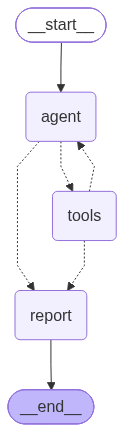
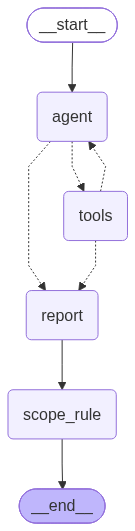
ops_agent: compute impact scope by rule after report, keep model scope for A/B

diff --git a/ops_agent/evaluate.py b/ops_agent/evaluate.py
@@ -2,9 +2,12 @@
 
   python -m ops_agent.evaluate
   python -m ops_agent.evaluate --case case01 case05 --pause 30
+  python -m ops_agent.evaluate --case case07 --repeat 3
+  python -m ops_agent.evaluate --rescore ops_agent/results/eval-*.json
 
-指标：根因类别、影响范围是否正确；报告里命中了多少条关键证据；标准答案要求的工具是否都调用过；
-以及工具轮数、LLM 调用次数、tokens、耗时。结果保存在 ops_agent/results/。
+指标：根因类别、影响范围是否正确（模型给的范围和规则算的范围分开计）；报告里命中了多少条关键证据；
+标准答案要求的工具是否都调用过；以及工具轮数、LLM 调用次数、tokens、耗时。结果保存在 ops_agent/results/。
+--rescore 不调用模型，用历史结果里模型给的根因类别重新计算规则范围，对照模型自己给的范围。
 """
 import argparse
 import json
@@ -18,6 +21,7 @@ import tracing
 from ops_agent.__main__ import progress
 from ops_agent.data import Case, load_cases
 from ops_agent.graph import MAX_TOOL_ROUNDS, ask, build_graph
+from ops_agent.scope_rule import rule_scope
 
 RESULTS_DIR = Path(__file__).parent / "results"
 
@@ -37,6 +41,9 @@ def score(case: Case, r: dict) -> dict:
         "got": f"{report.category}/{report.scope}" if report else "无报告",
         "category_ok": bool(report) and report.category == answer.category,
         "scope_ok": bool(report) and report.scope == answer.scope,
+        "rule_scope": r["rule_scope"],
+        "rule_scope_ok": r["rule_scope"] == answer.scope,
+        "rule_reason": r["rule_reason"],
         "evidence_recall": sum(hits) / len(hits),
         "missed_evidence": [g for g, h in zip(answer.evidence, hits) if not h],
         "tools_ok": set(answer.required_tools) <= set(r["tools_used"]),
@@ -54,6 +61,8 @@ def write_scores(row: dict) -> None:
     trace_id = row["trace_id"]
     tracing.score(trace_id, "category_ok", row["category_ok"], comment=f"{row['expected']} -> {row['got']}")
     tracing.score(trace_id, "scope_ok", row["scope_ok"])
+    tracing.score(trace_id, "scope_rule_ok", row["rule_scope_ok"],
+                  comment=f"规则 {row['rule_scope']}：{row['rule_reason']}")
     tracing.score(trace_id, "evidence_recall", row["evidence_recall"],
                   comment=f"缺证据 {row['missed_evidence']}" if row["missed_evidence"] else None)
     tracing.score(trace_id, "tools_ok", row["tools_ok"])
@@ -73,19 +82,45 @@ def run_case(app, case: Case, retries: int, run_id: str) -> dict:
 
 def summarize(rows: list[dict]) -> dict:
     mean = lambda key: sum(r[key] for r in rows) / len(rows)
-    return {k: round(mean(k), 3) for k in ("category_ok", "scope_ok", "evidence_recall", "tools_ok",
+    return {k: round(mean(k), 3) for k in ("category_ok", "scope_ok", "rule_scope_ok", "evidence_recall", "tools_ok",
                                            "tool_rounds", "tool_calls", "llm_calls", "tokens", "latency")}
+
+
+def rescore(paths: list[str]) -> None:
+    cases = load_cases()
+    total = {"scope_ok": 0, "rule_scope_ok": 0, "n": 0}
+    for path in paths:
+        data = json.loads(Path(path).read_text(encoding="utf-8"))
+        print(f"\n{Path(path).name}（{data['meta']['model']}）")
+        for row in data["rows"]:
+            case, report = cases[row["case_id"]], row["report"]
+            scope, reason = rule_scope(case, report["category"] if report else None)
+            model_scope = report["scope"] if report else "无报告"
+            ok_a, ok_b = model_scope == case.answer.scope, scope == case.answer.scope
+            total["scope_ok"] += ok_a
+            total["rule_scope_ok"] += ok_b
+            total["n"] += 1
+            print(f"  {row['case_id']}  期望 {case.answer.scope:<14}模型 {model_scope:<14}{'✓' if ok_a else '✗'}  "
+                  f"规则 {scope:<14}{'✓' if ok_b else '✗'}  {reason}")
+    n = total["n"]
+    print(f"\n共 {n} 个结果：模型给的范围对 {total['scope_ok']} 个（{total['scope_ok'] / n:.0%}），"
+          f"规则计算的范围对 {total['rule_scope_ok']} 个（{total['rule_scope_ok'] / n:.0%}）")
 
 
 def main() -> None:
     parser = argparse.ArgumentParser(prog="python -m ops_agent.evaluate")
     parser.add_argument("--case", nargs="*", help="只跑这些 case，默认全部")
+    parser.add_argument("--repeat", type=int, default=1, help="每个 case 跑几次")
     parser.add_argument("--pause", type=float, default=20, help="两个 case 之间暂停的秒数，避免触发限流")
     parser.add_argument("--retries", type=int, default=3)
+    parser.add_argument("--rescore", nargs="+", metavar="RESULT_JSON", help="不调用模型，对历史结果重算规则范围")
     args = parser.parse_args()
+    if args.rescore:
+        rescore(args.rescore)
+        return
 
     cases = load_cases()
-    ids = args.case or list(cases)
+    ids = [cid for cid in args.case or list(cases) for _ in range(args.repeat)]
     llm = config.get_llm()
     app = build_graph(llm)
     rows = []
@@ -98,16 +133,19 @@ def main() -> None:
         row = score(cases[cid], run_case(app, cases[cid], args.retries, run_id))
         write_scores(row)
         rows.append(row)
-        print(f"  => {row['got']}（期望 {row['expected']}），证据 {row['evidence_recall']:.0%}，"
-              f"{row['tool_rounds']} 轮 {row['tool_calls']} 次工具，{row['latency']}s", flush=True)
+        print(f"  => {row['got']}（期望 {row['expected']}），规则范围 {row['rule_scope']}，"
+              f"证据 {row['evidence_recall']:.0%}，{row['tool_rounds']} 轮 {row['tool_calls']} 次工具，"
+              f"{row['latency']}s", flush=True)
 
-    print(f"\n{'case':<8}{'类别':>6}{'范围':>6}{'证据':>8}{'工具':>6}{'轮数':>6}{'LLM':>6}{'tokens':>9}{'耗时':>8}")
+    mark = lambda ok: "✓" if ok else "✗"
+    print(f"\n{'case':<8}{'类别':>6}{'范围':>6}{'规则':>6}{'证据':>8}{'工具':>6}{'轮数':>6}{'LLM':>6}{'tokens':>9}{'耗时':>8}")
     for r in rows:
-        print(f"{r['case_id']:<8}{'✓' if r['category_ok'] else '✗':>7}{'✓' if r['scope_ok'] else '✗':>7}"
-              f"{r['evidence_recall']:>9.0%}{'✓' if r['tools_ok'] else '✗':>7}{r['tool_rounds']:>8}"
+        print(f"{r['case_id']:<8}{mark(r['category_ok']):>7}{mark(r['scope_ok']):>7}{mark(r['rule_scope_ok']):>7}"
+              f"{r['evidence_recall']:>9.0%}{mark(r['tools_ok']):>7}{r['tool_rounds']:>8}"
               f"{r['llm_calls']:>6}{r['tokens']:>9}{r['latency']:>9.1f}")
     summary = summarize(rows)
-    print(f"\n类别准确率 {summary['category_ok']:.0%}，范围准确率 {summary['scope_ok']:.0%}，"
+    print(f"\n类别准确率 {summary['category_ok']:.0%}，范围准确率 {summary['scope_ok']:.0%}"
+          f"（规则计算 {summary['rule_scope_ok']:.0%}），"
           f"证据召回 {summary['evidence_recall']:.0%}，必需工具覆盖 {summary['tools_ok']:.0%}；"
           f"平均 {summary['tool_rounds']} 轮工具、{summary['llm_calls']} 次 LLM、"
           f"{summary['tokens']:.0f} tokens、{summary['latency']:.1f}s")
@@ -115,6 +153,8 @@ def main() -> None:
         problems = []
         if not r["category_ok"] or not r["scope_ok"]:
             problems.append(f"{r['expected']} -> {r['got']}")
+        if not r["rule_scope_ok"]:
+            problems.append(f"规则范围 {r['rule_scope']}")
         if r["missed_evidence"]:
             problems.append(f"缺证据 {r['missed_evidence']}")
         if r["missed_tools"]:
@@ -130,6 +170,7 @@ def main() -> None:
         "model": llm.model_name,
         "temperature": llm.temperature,
         "max_tool_rounds": MAX_TOOL_ROUNDS,
+        "repeat": args.repeat,
         "langfuse_session": run_id if tracing.enabled() else None,
     }
     out.write_text(json.dumps({"meta": meta, "summary": summary, "rows": rows}, ensure_ascii=False, indent=2),
@@ -137,7 +178,8 @@ def main() -> None:
     print(f"\n模型 {meta['model']}，结果已保存到 {out}")
     if tracing.enabled():
         tracing.flush()
-        print(f"Langfuse 会话：{run_id}（trace 上带 category_ok / scope_ok / evidence_recall / tools_ok 分数）")
+        print(f"Langfuse 会话：{run_id}（trace 上带 category_ok / scope_ok / scope_rule_ok / evidence_recall / "
+              f"tools_ok 分数）")
 
 
 if __name__ == "__main__":

diff --git a/ops_agent/graph.py b/ops_agent/graph.py
@@ -2,10 +2,11 @@
 
     START -> agent --有工具调用--> tools --未到轮数上限--> agent
                |                     |--到达上限--> report
-               |--不再调用工具--> report -> END
+               |--不再调用工具--> report -> scope_rule -> END
 
 agent 只负责"想下一步查什么"，report 只负责"把查到的东西整理成固定结构"。拆开后，
 排查过程可以用自由文本推理，报告字段又能稳定地拿来评估；轮数上限保证一定能收敛。
+scope_rule 按主机数据规则重算影响范围，报告里模型自己给的范围保留不动，两者可以对照。
 """
 import time
 from collections.abc import Callable
@@ -17,11 +18,13 @@ import tracing
 from langchain_core.messages import AIMessage, HumanMessage, SystemMessage
 from langgraph.graph import END, START, MessagesState, StateGraph
 from langgraph.prebuilt import ToolNode
+from langgraph.runtime import Runtime
 from pydantic import BaseModel, Field
 from tools import CallCounter
 
-from ops_agent.data import Case, Category, Scope, category_choices, scope_choices
+from ops_agent.data import Case, Category, Scope, category_choices, load_cases, scope_choices
 from ops_agent.diag_tools import TOOLS, OpsContext
+from ops_agent.scope_rule import rule_scope
 
 MAX_TOOL_ROUNDS = 8
 
@@ -55,6 +58,8 @@ class RootCauseReport(BaseModel):
 class OpsState(MessagesState):
     report: RootCauseReport | None
     error: str
+    rule_scope: Scope | None
+    rule_reason: str
 
 
 def alert_message(case: Case) -> str:
@@ -86,6 +91,11 @@ def build_graph(llm=None, max_tool_rounds: int = MAX_TOOL_ROUNDS):
             return {"report": None, "error": f"{type(e).__name__}: {e}"}
         return {"report": result, "error": "" if result else "模型没有输出报告"}
 
+    def scope_rule(state: OpsState, runtime: Runtime[OpsContext]) -> dict:
+        case = load_cases()[runtime.context.case_id]
+        scope, reason = rule_scope(case, state["report"].category if state["report"] else None)
+        return {"rule_scope": scope, "rule_reason": reason}
+
     def after_agent(state: OpsState) -> str:
         return "tools" if state["messages"][-1].tool_calls else "report"
 
@@ -96,10 +106,12 @@ def build_graph(llm=None, max_tool_rounds: int = MAX_TOOL_ROUNDS):
     graph.add_node("agent", agent)
     graph.add_node("tools", ToolNode(TOOLS))
     graph.add_node("report", report)
+    graph.add_node("scope_rule", scope_rule)
     graph.add_edge(START, "agent")
     graph.add_conditional_edges("agent", after_agent, {"tools": "tools", "report": "report"})
     graph.add_conditional_edges("tools", after_tools, {"agent": "agent", "report": "report"})
-    graph.add_edge("report", END)
+    graph.add_edge("report", "scope_rule")
+    graph.add_edge("scope_rule", END)
     return graph.compile(name="ops_agent")
 
 
@@ -113,7 +125,8 @@ def ask(app, case: Case, on_step: Callable[[str], None] | None = None, session_i
     """跑一个 case，返回报告、工具调用轨迹和成本。on_step 在每个节点结束时收到一行进度。"""
     counter = CallCounter()
     start = time.perf_counter()
-    inputs = {"messages": [HumanMessage(alert_message(case))], "report": None, "error": ""}
+    inputs = {"messages": [HumanMessage(alert_message(case))], "report": None, "error": "",
+              "rule_scope": None, "rule_reason": ""}
     trace_id = tracing.new_trace_id()
     cfg = tracing.traced({"callbacks": [counter], "recursion_limit": 4 * MAX_TOOL_ROUNDS + 10}, "ops_agent",
                          trace_id=trace_id, session_id=session_id, tags=["ops_agent", case.id, *(tags or [])],
@@ -135,6 +148,8 @@ def ask(app, case: Case, on_step: Callable[[str], None] | None = None, session_i
     return {
         "case_id": case.id,
         "report": state["report"],
+        "rule_scope": state["rule_scope"],
+        "rule_reason": state["rule_reason"],
         "error": state["error"],
         "rounds": rounds,
         "tools_used": sorted({c.split("(")[0] for r in rounds for c in r}),

diff --git a/tests/test_ops_agent.py b/tests/test_ops_agent.py
@@ -10,6 +10,7 @@ from ops_agent.data import CATEGORY_NAMES, DEFAULT_METRICS, HISTORY_MINUTES, loa
 from ops_agent.diag_tools import TOOLS, OpsContext
 from ops_agent.evaluate import score
 from ops_agent.graph import REPORT_PROMPT, RootCauseReport, alert_message, ask, build_graph
+from ops_agent.scope_rule import rule_scope
 from tests.fake_models import ScriptedChatModel, tool_call
 
 CASES = load_cases()
@@ -125,6 +126,24 @@ def test_compare_peers_groups(run):
                                                                 metric="disk_usage"))
 
 
+@pytest.mark.parametrize("case_id", sorted(CASES))
+def test_rule_scope(case_id):
+    c = CASES[case_id]
+    assert rule_scope(c, c.answer.category)[0] == c.answer.scope
+    # 除监控误报外，范围只看主机数据，和模型给的类别无关
+    if c.answer.category != "false_alarm":
+        assert rule_scope(c, "config_change")[0] == rule_scope(c, None)[0] == c.answer.scope
+
+
+def test_rule_scope_layers():
+    # case07 类别判错时，靠百分比超过 100 仍判为无实际影响
+    scope, reason = rule_scope(CASES["case07"], "resource_leak")
+    assert scope == "no_impact" and "超过 100" in reason
+    # 模型把真实故障判成误报时，规则跟着判错，这是分层规则的代价
+    assert rule_scope(CASES["case06"], "false_alarm")[0] == "no_impact"
+    assert "web-03、web-05" in rule_scope(CASES["case01"], "release_defect")[1]
+
+
 def report(**kw) -> RootCauseReport:
     fields = dict(category="downstream_dependency", scope="whole_service", root_cause="mysql-inv-01 在线 DDL",
                   evidence=["slow query on mysql-inv-01"], suggested_actions=["暂停 DDL"], confidence="high")
@@ -143,6 +162,7 @@ def test_graph_react_loop():
     assert result["tools_used"] == ["compare_peers", "search_logs"]
     assert result["conclusion"].startswith("三台都慢")
     assert result["report"].category == "downstream_dependency" and result["error"] == ""
+    assert result["rule_scope"] == "whole_service" and "3 台主机都异常" in result["rule_reason"]
     assert llm.bound_tools[0] == [t.name for t in TOOLS]
     # 系统提示之后是告警，工具结果来自 case05 的数据（context 注入生效）
     _, first, *_, last = llm.received[-1]
@@ -159,19 +179,27 @@ def test_graph_round_limit_goes_to_report():
     assert result["report"] is not None and len(llm.received) == 2
 
 
+def test_graph_keeps_model_scope():
+    llm = ScriptedChatModel(responses=[AIMessage("缓存内存泄漏"), report(category="resource_leak", scope="partial_hosts")])
+    result = ask(build_graph(llm), CASES["case07"])
+    assert result["report"].scope == "partial_hosts" and result["rule_scope"] == "no_impact"
+
+
 def test_graph_report_failure():
     llm = ScriptedChatModel(responses=[AIMessage("直接结论"), AIMessage("不是结构化输出")])
     result = ask(build_graph(llm), CASES["case07"])
     assert result["rounds"] == [] and result["report"] is None
     assert "AssertionError" in result["error"]
+    # 没有报告时规则只看主机数据
+    assert result["rule_scope"] == "no_impact"
 
 
 def test_score():
     result = {"report": report(scope="single_host"), "rounds": [["search_logs(host=inv-01)"]],
               "tools_used": ["search_logs"], "conclusion": "", "error": "", "llm_calls": 3, "tokens": 100,
-              "latency": 1.0}
+              "latency": 1.0, "rule_scope": "whole_service", "rule_reason": ""}
     row = score(CASES["case05"], result)
-    assert row["category_ok"] and not row["scope_ok"]
+    assert row["category_ok"] and not row["scope_ok"] and row["rule_scope_ok"]
     assert row["evidence_recall"] == 1.0 and row["missed_tools"] == ["compare_peers"]
     empty = score(CASES["case05"], result | {"report": None, "error": "x"})
     assert empty["got"] == "无报告" and empty["evidence_recall"] == 0

diff --git a/ops_agent/scope_rule.py b/ops_agent/scope_rule.py
@@ -1,0 +1,63 @@
+"""影响范围的规则计算：不让模型判断，按 compare_peers 用到的同一份数据算出来。
+
+分两层：
+1. 异常是否真实：模型给的根因类别是监控误报，或者百分比指标超过 100%（物理上不可能），判为无实际影响；
+2. 异常分布：在告警主机的同服务主机、同可用区其他服务主机里找出异常主机，再按分布映射成范围。
+
+异常主机的判定：最近 10 分钟均值超过告警阈值，或者相对自身基线的涨幅达到告警主机涨幅的一半。
+基线取 1 小时前和 1 天前两个窗口里较低的一个，这样突变（1 小时前正常）和缓慢上涨（1 天前正常）都能识别；
+每天固定时段的峰值（如定时备份）1 小时前是正常的，也会被识别为异常，但只要其他主机没有同样的峰值，结果仍是单台主机。
+"""
+from dataclasses import dataclass
+from statistics import mean
+
+from ops_agent.data import PERCENT_METRICS, Case, series
+from ops_agent.diag_tools import _window
+
+RISE_RATIO = 0.5
+
+
+@dataclass
+class HostStat:
+    name: str
+    service: str
+    az: str
+    current: float
+    baseline: float
+    abnormal: bool = False
+
+
+def host_stat(case: Case, name: str, metric: str) -> HostStat:
+    h = case.host(name)
+    values = series(case.id, name, metric)
+    baseline = min(mean(_window(values, 70, 60)), mean(_window(values, 1450, 1440)))
+    return HostStat(h.name, h.service, h.az, mean(_window(values, 10, 0)), baseline)
+
+
+def rule_scope(case: Case, category: str | None) -> tuple[str, str]:
+    """返回 (影响范围, 依据)。category 是模型报告里的根因类别，没有报告时传 None。"""
+    alert = case.alert
+    if category == "false_alarm":
+        return "no_impact", "根因类别为监控误报，业务没有实际影响"
+    me = host_stat(case, alert.host, alert.metric)
+    if alert.metric in PERCENT_METRICS and me.current > 100:
+        return "no_impact", f"{alert.metric} 是百分比指标，当前 {me.current:.1f} 超过 100，监控数据本身不可信"
+
+    rise = me.current - me.baseline
+    peers = [host_stat(case, h.name, alert.metric) for h in case.hosts
+             if h.name != me.name and (h.service == me.service or h.az == me.az)]
+    for p in peers:
+        p.abnormal = p.current >= alert.threshold or (rise > 0 and p.current - p.baseline >= RISE_RATIO * rise)
+    service = [p for p in peers if p.service == me.service]
+    az_others = [p for p in peers if p.service != me.service and p.az == me.az]
+    bad_service = [p.name for p in service if p.abnormal]
+    bad_az = [p.name for p in az_others if p.abnormal]
+
+    if az_others and len(bad_az) * 2 >= len(az_others):
+        return "whole_az", f"同可用区 {me.az} 的其他服务主机也异常：{'、'.join(bad_az)}"
+    if service and len(bad_service) == len(service):
+        return "whole_service", f"同服务 {me.service} 的 {len(service) + 1} 台主机都异常"
+    if bad_service:
+        return "partial_hosts", (f"同服务 {len(service) + 1} 台主机中 {len(bad_service) + 1} 台异常："
+                                 f"{'、'.join([me.name, *bad_service])}")
+    return "single_host", f"同服务和同可用区的其他主机都正常，只有 {me.name} 异常"

diff --git a/ops_agent/__main__.py b/ops_agent/__main__.py
@@ -28,6 +28,7 @@ def print_result(result: dict, case) -> None:
         print(f"根因：{report.root_cause}")
         print("证据：\n" + "\n".join(f"  - {e}" for e in report.evidence))
         print("建议：\n" + "\n".join(f"  - {a}" for a in report.suggested_actions))
+    print(f"规则计算的影响范围：{SCOPE_NAMES[result['rule_scope']]}（{result['rule_scope']}），{result['rule_reason']}")
     answer = case.answer
     print(f"\n参考答案：{CATEGORY_NAMES[answer.category]} / {SCOPE_NAMES[answer.scope]}。{answer.summary}")
     print(f"（LLM 调用 {result['llm_calls']} 次，{result['tokens']} tokens，{result['latency']:.1f}s）")

diff --git a/README.md b/README.md
@@ -177,7 +177,7 @@ LANGFUSE_BASE_URL=https://cloud.langfuse.com   # 美国区用 https://us.cloud.l
 
 所有 trace 都带上当前模型名作为标签，方便按模型筛选和对比。
 
-命令行入口在回答后打印 trace 链接；HTTP 接口在 `done` 事件里返回 `trace_id`。评测脚本还会把分数写回对应的 trace：`eval/evaluate_agent.py` 写路由、拒答、检索命中、关键点覆盖、指代改写是否正确；`python -m ops_agent.evaluate` 写根因类别、影响范围、证据召回、必需工具覆盖。这样在 Langfuse 里按分数筛出失败的 trace，就能直接看到模型当时拿到了什么、怎么推理的。
+命令行入口在回答后打印 trace 链接；HTTP 接口在 `done` 事件里返回 `trace_id`。评测脚本还会把分数写回对应的 trace：`eval/evaluate_agent.py` 写路由、拒答、检索命中、关键点覆盖、指代改写是否正确；`python -m ops_agent.evaluate` 写根因类别、影响范围（模型给的和规则算的各一个）、证据召回、必需工具覆盖。这样在 Langfuse 里按分数筛出失败的 trace，就能直接看到模型当时拿到了什么、怎么推理的。
 
 实现上的几个取舍：
 
@@ -187,7 +187,7 @@ LANGFUSE_BASE_URL=https://cloud.langfuse.com   # 美国区用 https://us.cloud.l
 
 ## 告警根因定位 Agent（ops_agent）
 
-[`ops_agent/`](ops_agent/) 是一个独立的 LangGraph 练习：合成 7 个云主机告警 case（发布缺陷、配置错误、内存泄漏、下游数据库、可用区网络、定时备份、监控误报各一个，都带干扰项），给模型 4 个只读诊断工具（指标、变更、日志、同类主机对比），用手写的 ReAct 状态图让它自己排查，最后由单独的节点输出结构化根因报告，再和标准答案比对。
+[`ops_agent/`](ops_agent/) 是一个独立的 LangGraph 练习：合成 7 个云主机告警 case（发布缺陷、配置错误、内存泄漏、下游数据库、可用区网络、定时备份、监控误报各一个，都带干扰项），给模型 4 个只读诊断工具（指标、变更、日志、同类主机对比），用手写的 ReAct 状态图让它自己排查，最后由单独的节点输出结构化根因报告，影响范围再按主机数据用规则重算一遍，和模型给的对照，都和标准答案比对。
 
 ```bash
 python -m ops_agent --case case01     # 跑一个 case，实时打印每轮调用的工具
@@ -196,7 +196,7 @@ python -m ops_agent.evaluate          # 跑全部 case 并打分
 
 ![ops_agent 状态图](docs/ops_agent.png)
 
-用 Qwen3-8B 跑了两轮：必需工具都调用到了，case05 还会顺着日志去查数据库的变更；但根因类别准确率只有 43%~71%，影响范围 29%~57%，两轮之间波动很大。错误主要出在读工具输出和下结论两步。数据生成方式、工具设计、评估指标和逐个 case 的失败分析见 [ops_agent 说明](ops_agent/README.md)。
+用 Qwen3-8B 跑了两轮：必需工具都调用到了，case05 还会顺着日志去查数据库的变更；但根因类别准确率只有 43%~71%，影响范围 29%~57%，两轮之间波动很大。换成 DeepSeek-V3.2 后类别 7/7 全对，但 case07（监控误报）的影响范围仍然判错。影响范围改成按 `compare_peers` 的数据用规则计算后，历史 3 轮 21 个结果从 57% 提升到 95%，case07 在两个模型上 9 次运行都由全错变成全对。数据生成方式、工具设计、评估指标和逐个 case 的失败分析见 [ops_agent 说明](ops_agent/README.md)。
 
 ## 评估
 
